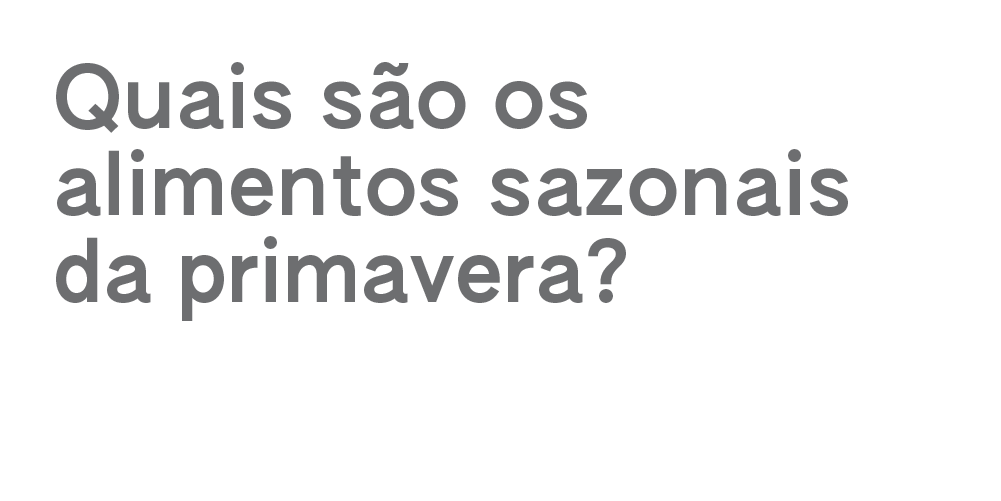
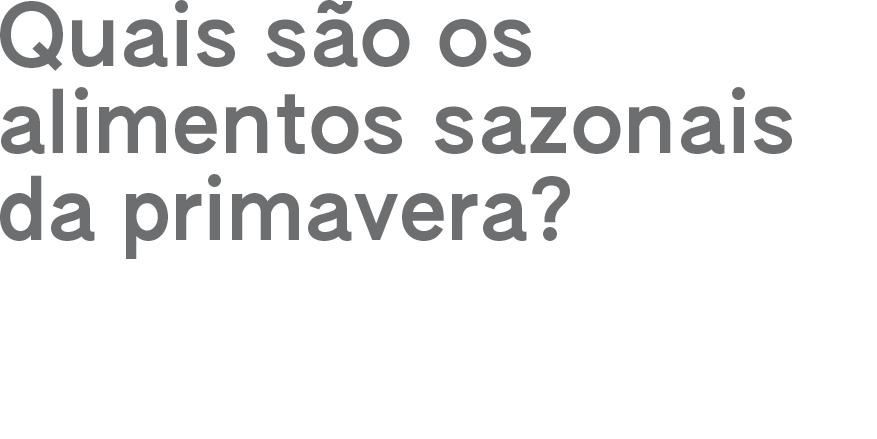
+

Changed region(s): [[0.0, 0.0, 0.9236, 0.6515]]

diff --git a/nivel1.js b/nivel1.js
@@ -3,12 +3,16 @@ var h = window.innerHeight;
 
 var items = {};
 var levels;
-var plate, plateSize;
+var plate, plateSize, itemSize;
 var itemsScale = 0.16;
 var close;
 var heightQuestion = 400;
 
+var pw, ph;
+
 var endLevel = false, level = 1;
+
+var h1Size, h2Size;
 
 function preload() {
     plate = loadImage('data/jogo/plate.png');
@@ -17,10 +21,16 @@ function preload() {
 
 function setup() {
     canvas = createCanvas(w, h);
+    pw = w;
+    ph = h;
+
     loadItems();
     loadLevels();
     imageMode(CENTER);
+
     platesize();
+    itemsize();
+    textsize();
 }
 
 function draw() {
@@ -28,16 +38,38 @@ function draw() {
 }
 
 window.onresize = function () {
+    pw = w;
+    ph = h;
+
     w = window.innerWidth;
     h = window.innerHeight;
     canvas.size(w, h);
 
     platesize();
+    itemsize();
+    textsize();
+
+    levels.recalcLevel();
 }
 
 function platesize() {
     if (w > h) plateSize = h * 0.5;
-    else plateSize = w * 0.5;
+    else plateSize = w * 0.8;
+}
+
+function itemsize() {
+    if (w > h) itemSize = h * 0.0002;
+    else itemSize = w * 0.0002;
+}
+
+function textsize() {
+    if (w > h) {
+        h2Size = h * 0.06;
+        heightQuestion = height / 3;
+    } else {
+        h2Size = h * 0.04;
+        heightQuestion = height / 4;
+    }
 }
 
 function loadItems() {
@@ -186,6 +218,12 @@ class LevelLoader {
             return true;
         return false
     }
+
+    recalcLevel() {
+        for(let i = 0; i < this.levels.length; i++) {
+            this.levels[i].recalcItem();
+        }
+    }
 }
 
 class UIFinish {
@@ -293,7 +331,7 @@ class Level {
         for (let i = 0; i < this.items.length; i++) {
             let item = this.items[i];
             item.item.show(item.pos,
-                (item.scale + item.scale * item.dragScale / this.timeScaleMax / 2) //Animation Scale
+                (itemSize + itemSize * item.dragScale / this.timeScaleMax / 10) //Animation Scale
             );
         }
 
@@ -310,16 +348,18 @@ class Level {
 
     ui() {
         let content = this.points + "/" + this.totalTrues;
-        textSize(this.textSize);
+        textSize(h2Size);
         push();
         fill(109, 111, 113);
         blendMode(MULTIPLY);
-        text(content, 64, heightQuestion/1.5 + textAscent());
+        text(content, 30, heightQuestion/5*3.8 + textAscent());
         pop();
         rectMode(CORNERS);
         push();
         blendMode(MULTIPLY);
-        image(this.question, 420, 200, 800, heightQuestion);
+        image(this.question,
+            heightQuestion + 30, heightQuestion/2 + 30,
+            heightQuestion*2, heightQuestion);
         pop();
 
         if (this.lastPlateItem != null && this.currentTextTimer != 0) {
@@ -345,7 +385,7 @@ class Level {
             for (let i = 0; i < this.items.length; i++) {
                 let item = this.items[i];
                 let d = dist(mouseX, mouseY, item.pos.x, item.pos.y);
-                if (d < item.item.image.width * item.scale / 2) {
+                if (d < item.item.image.width * itemSize / 2) {
                     this.draggingItem = item;
                     this.offsetX = mouseX - this.draggingItem.pos.x;
                     this.offsetY = mouseY - this.draggingItem.pos.y;
@@ -382,11 +422,28 @@ class Level {
     }
 
     setDefaultPosition() {
-        let space = width / (this.items.length + 1);
-        for (let i = 0; i < this.items.length; i++) {
-            this.items[i].pos.set(
-                space * (i + 1), height * (1 - 0.13)
-            );
+        let space;
+
+        if (w > h) {
+            space = width / (this.items.length + 1);
+            for (let i = 0; i < this.items.length; i++) {
+                this.items[i].pos.set(
+                    space * (i + 1), height * (1 - itemsScale)
+                );
+            }
+        }
+        else {
+            space = width / (this.items.length/2 + 3);
+            for (let i = 0; i < this.items.length; i++) {
+                let xd;
+                if(i%2 == 0) xd = 0;
+                else xd = 1;
+
+                this.items[i].pos.set(
+                    space * (i + 1 - xd),
+                    height * (1 - itemsScale/1.5 * (1+xd))
+                );
+            }
         }
     }
 
@@ -408,6 +465,13 @@ class Level {
                 return false;
         }
         return true;
+    }
+
+    recalcItem() {
+        for (let i = 0; i < this.items.length; i++) {
+            this.items[i].pos = replaceItem(this.items[i].pos.x, this.items[i].pos.y,
+                pw, ph, width, height);
+        }
     }
 }
 
@@ -435,4 +499,11 @@ function mouseDragged() {
 
 function mouseReleased() {
     levels.mouseReleased();
+}
+
+function replaceItem(px, py, pw, ph, w, h) {
+    let x = px * w / pw;
+    let y = py * h / ph;
+
+    return createVector(x, y);
 }
